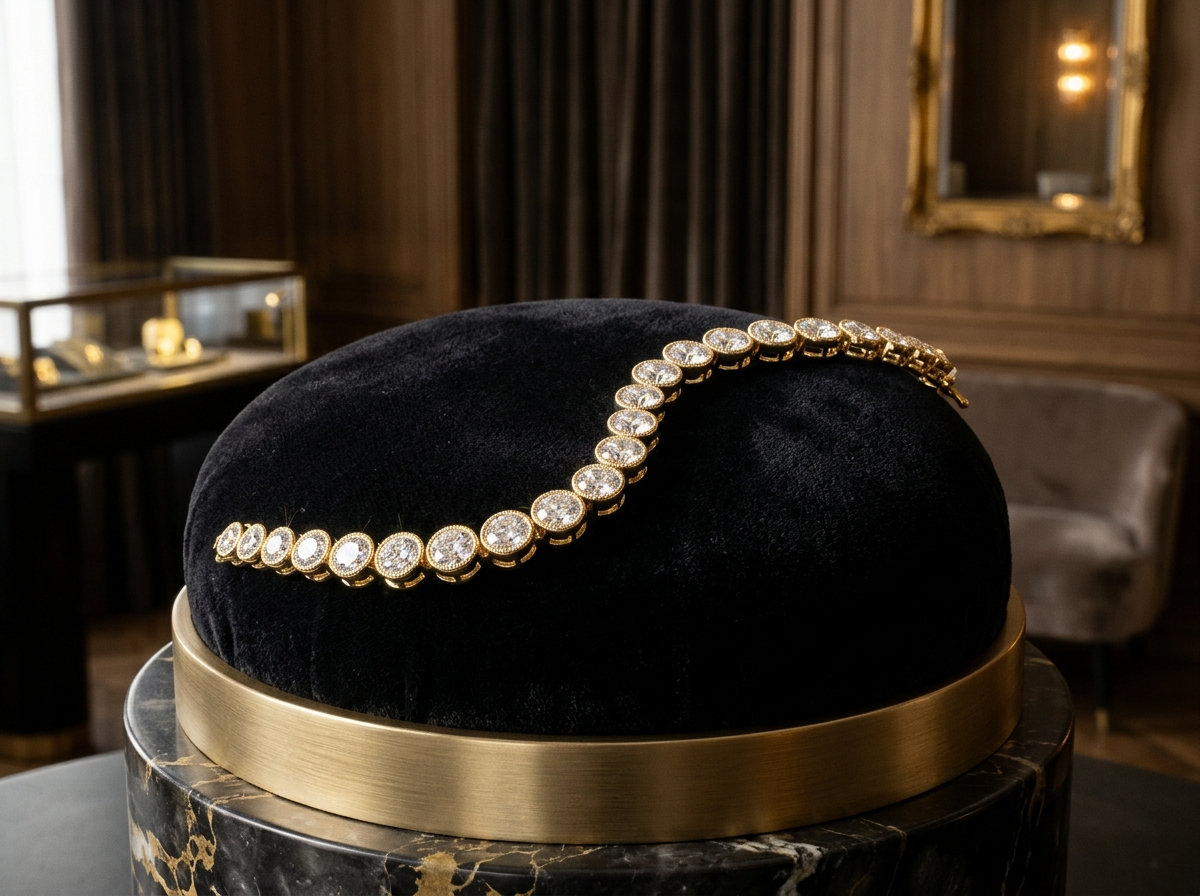
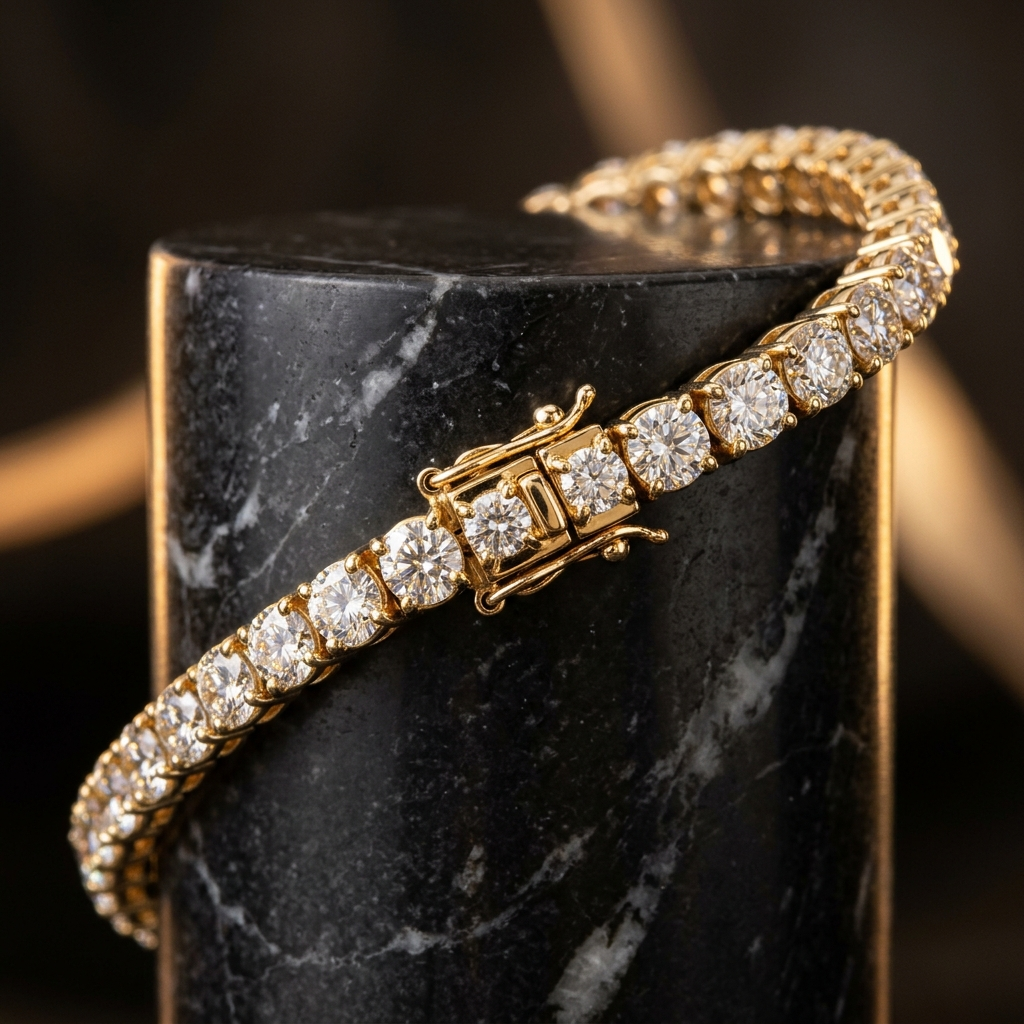
feat: upgrade our collections with dedicated necklace, earrings, bracelet, and bangles luxury photography and enlarge heading font size

diff --git a/src/pages/HomePage.tsx b/src/pages/HomePage.tsx
@@ -154,12 +154,12 @@ export const HomePage: React.FC = () => {
     {
       name: 'Necklaces',
       link: '/shop?category=Necklaces',
-      image: 'https://images.unsplash.com/photo-1599643478518-a784e5dc4c8f?auto=format&fit=crop&w=600&q=80',
+      image: '/images/collections-necklace.jpg',
     },
     {
       name: 'Earrings',
       link: '/shop?category=Earrings',
-      image: 'https://images.unsplash.com/photo-1630019852942-f89202989a59?auto=format&fit=crop&w=600&q=80',
+      image: '/images/collections-earrings.jpg',
     },
     {
       name: 'Bracelets',
@@ -169,7 +169,7 @@ export const HomePage: React.FC = () => {
     {
       name: 'Bangles',
       link: '/shop?category=Bangles',
-      image: 'https://images.unsplash.com/photo-1598560917505-59a3ad559071?auto=format&fit=crop&w=600&q=80',
+      image: '/images/collections-bangles.jpg',
     },
     {
       name: 'Pendants',
@@ -345,21 +345,24 @@ export const HomePage: React.FC = () => {
         <div className="max-w-7xl mx-auto px-4 sm:px-6 lg:px-8">
           
           {/* Header */}
-          <div className="flex items-end justify-between mb-8 text-left">
+          <div className="flex flex-col sm:flex-row sm:items-end justify-between gap-4 mb-8 text-left">
             <div>
-              <h2 className="text-[11px] sm:text-xs uppercase font-bold tracking-[0.2em] text-[#090806] block">
+              <span className="text-[11px] sm:text-xs uppercase font-bold tracking-[0.25em] text-[#9E7A3E] block mb-1">
+                HAUTE JOAILLERIE CURATIONS
+              </span>
+              <h2 className="text-2xl sm:text-3xl lg:text-4xl font-serif-luxury uppercase font-bold tracking-[0.08em] text-[#090806] block">
                 OUR COLLECTIONS
               </h2>
-              <p className="text-xs sm:text-[13px] text-[#6B6357] font-light mt-0.5">
-                Discover jewellery for every emotion
+              <p className="text-sm sm:text-base text-[#6B6357] font-light mt-1">
+                Discover exquisite jewellery crafted for every emotion and sacred celebration
               </p>
             </div>
             <Link
               to="/shop"
-              className="text-[11px] sm:text-xs font-semibold tracking-wider text-[#090806] hover:text-[#9E7A3E] flex items-center gap-1.5 transition-colors"
+              className="text-xs sm:text-sm font-semibold tracking-wider text-[#090806] hover:text-[#9E7A3E] inline-flex items-center gap-2 transition-colors self-start sm:self-end pb-1 border-b border-[#090806]/30 hover:border-[#9E7A3E]"
             >
               <span>View All</span>
-              <ArrowRight className="w-3.5 h-3.5" />
+              <ArrowRight className="w-4 h-4" />
             </Link>
           </div>
 
@@ -402,8 +405,8 @@ export const HomePage: React.FC = () => {
                     loading="lazy"
                     onError={(e) => {
                       const target = e.currentTarget;
-                      if (!target.src.includes('collections-bracelet.jpg')) {
-                        target.src = '/images/collections-bracelet.jpg';
+                      if (!target.src.includes('collections-')) {
+                        target.src = '/images/collections-necklace.jpg';
                       }
                     }}
                     className="w-full h-full object-cover transform transition-transform duration-700 group-hover:scale-108"
@@ -413,10 +416,10 @@ export const HomePage: React.FC = () => {
 
                   {/* Card Label Bottom-Left */}
                   <div className="absolute inset-x-3 bottom-3 text-left">
-                    <h3 className="font-serif-luxury text-base sm:text-lg font-medium text-white group-hover:text-[#D8B47A] transition-colors leading-tight">
+                    <h3 className="font-serif-luxury text-lg sm:text-xl font-medium text-white group-hover:text-[#D8B47A] transition-colors leading-tight">
                       {col.name}
                     </h3>
-                    <span className="text-[10px] sm:text-[11px] text-[#D1C7BA] group-hover:text-white flex items-center gap-1 font-light mt-0.5">
+                    <span className="text-[11px] sm:text-xs text-[#D1C7BA] group-hover:text-white flex items-center gap-1 font-light mt-0.5">
                       Explore Collection <span className="text-xs">→</span>
                     </span>
                   </div>

diff --git a/src/pages/CollectionsPage.tsx b/src/pages/CollectionsPage.tsx
@@ -41,7 +41,7 @@ export const CollectionsPage: React.FC = () => {
       tagline: 'Grand Galas & Evening Royalty',
       description: 'Luminous cascades of brilliant-cut diamonds, heritage antique collars, and temple gold masterpieces designed to grace your collarbone.',
       itemCount: '26 Designs',
-      image: 'https://images.unsplash.com/photo-1599643478518-a784e5dc4c8f?auto=format&fit=crop&w=800&q=80',
+      image: '/images/collections-necklace.jpg',
       highlight: 'Guild Hallmarked',
     },
     {
@@ -50,7 +50,7 @@ export const CollectionsPage: React.FC = () => {
       tagline: 'Deccan Filigree & South Sea Pearls',
       description: 'From dramatic ballroom chandeliers to timeless 22K temple jhumkas adorned with natural Burmese rubies and pearls.',
       itemCount: '42 Creations',
-      image: 'https://images.unsplash.com/photo-1630019852942-f89202989a59?auto=format&fit=crop&w=800&q=80',
+      image: '/images/collections-earrings.jpg',
       highlight: '22K Solid Gold',
     },
     {
@@ -59,7 +59,7 @@ export const CollectionsPage: React.FC = () => {
       tagline: 'Sovereign 22K Gold Craftsmanship',
       description: 'Nakshi handcrafted broad kadas, floral filigree pairs, and heirloom bangles with precision guild hinge closures.',
       itemCount: '22 Sets',
-      image: 'https://images.unsplash.com/photo-1598560917505-59a3ad559071?auto=format&fit=crop&w=800&q=80',
+      image: '/images/collections-bangles.jpg',
       highlight: 'BIS 916 Hallmark',
     },
     {
@@ -137,8 +137,8 @@ export const CollectionsPage: React.FC = () => {
                     alt={col.title}
                     onError={(e) => {
                       const target = e.currentTarget;
-                      if (!target.src.includes('collections-bracelet.jpg')) {
-                        target.src = '/images/collections-bracelet.jpg';
+                      if (!target.src.includes('collections-')) {
+                        target.src = '/images/collections-necklace.jpg';
                       }
                     }}
                     className="w-full h-full object-cover transform transition-transform duration-700 ease-out group-hover:scale-108"
